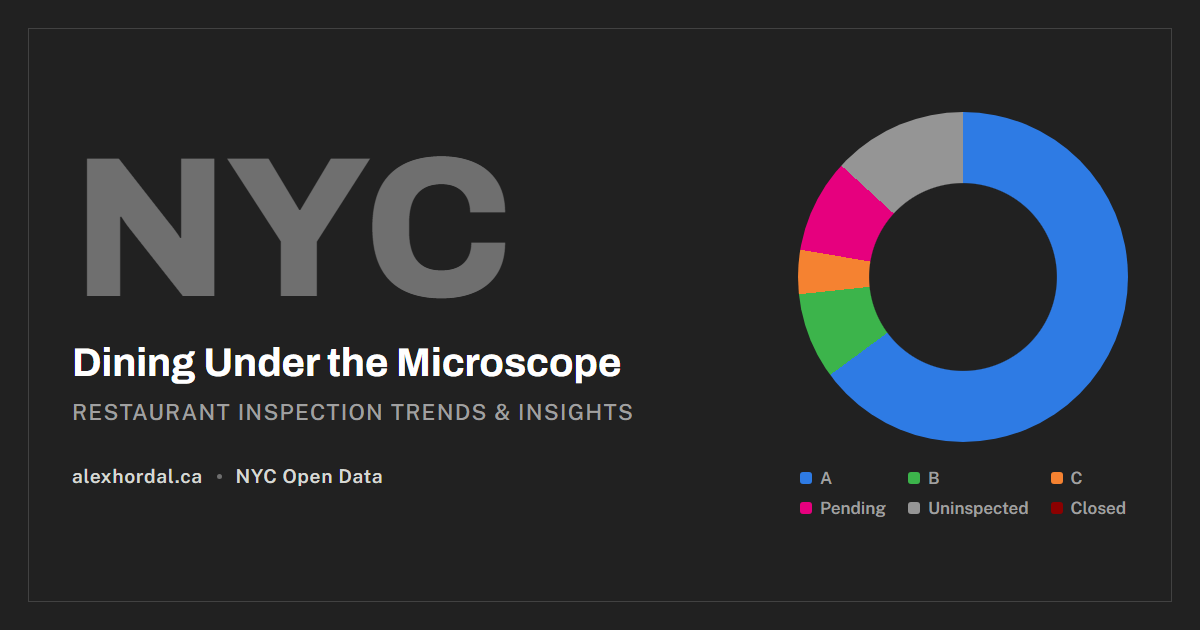
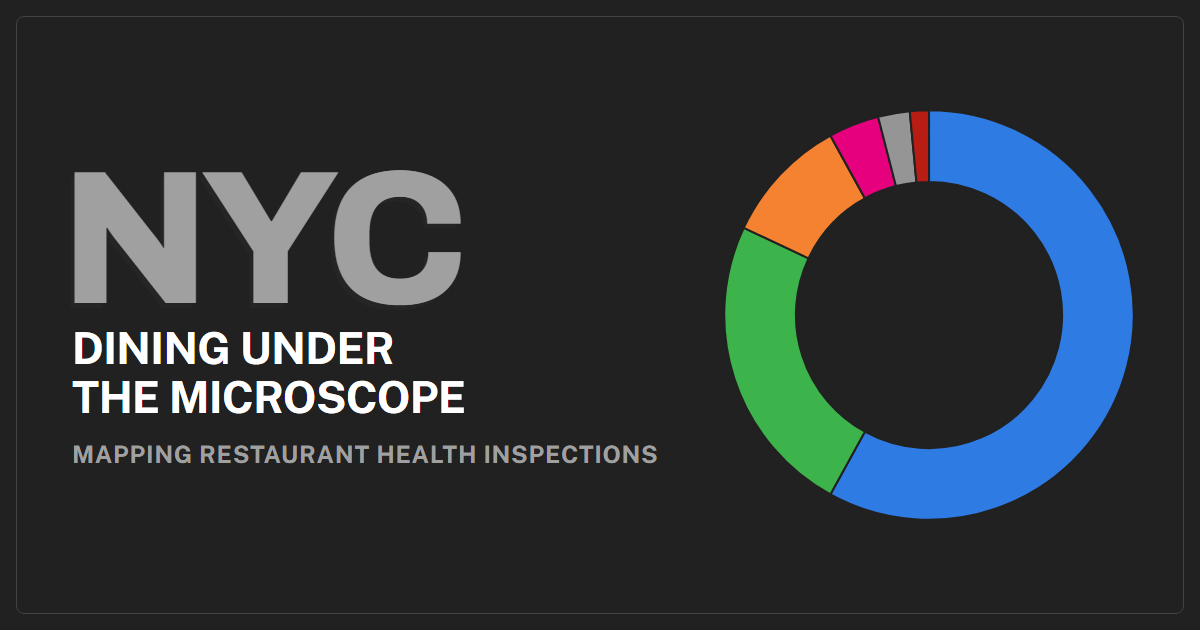
Add SEO files, restaurant-count injection, and split Node typecheck
Adds robots.txt/sitemap.xml, a Vite plugin that substitutes index.html's
%RESTAURANT_COUNT% token from dashboard-meta.json at build time, and
splits vite.config.ts under its own tsconfig.node.json so Node globals
stay out of src's typechecking; CI now runs both typecheck passes.

diff --git a/vite.config.ts b/vite.config.ts
@@ -3,11 +3,44 @@
 // Vite + Vitest config. Adds the PUBLIC_ env prefix and scopes the
 // frontend test run to src/.
 
-import { defineConfig } from "vitest/config";
+import fs from "node:fs";
+import path from "node:path";
+import { defineConfig, type Plugin } from "vitest/config";
 import react from "@vitejs/plugin-react";
 
+const RESTAURANT_COUNT_TOKEN = "%RESTAURANT_COUNT%";
+// Last known-good count, used only if dashboard-meta.json hasn't been
+// generated yet (e.g. `vite dev`/`vite build` run without the pipeline step).
+const RESTAURANT_COUNT_FALLBACK = 30_600;
+
+// index.html's SEO copy embeds the restaurant count as a rounded figure
+// ("roughly N") so it stays accurate without hand-editing on every
+// dataset refresh. dashboard-meta.json is generated by
+// pipeline/fetch-inspection.mjs, which always runs before this build.
+function injectRestaurantCount(): Plugin {
+  return {
+    name: "inject-restaurant-count",
+    transformIndexHtml(html) {
+      let count = RESTAURANT_COUNT_FALLBACK;
+
+      try {
+        const metaPath = path.resolve(process.cwd(), "public/data/dashboard-meta.json");
+        const meta = JSON.parse(fs.readFileSync(metaPath, "utf-8"));
+
+        if (typeof meta.restaurantCount === "number") {
+          count = Math.round(meta.restaurantCount / 100) * 100;
+        }
+      } catch {
+        // Not generated yet — fall back to the last known-good count.
+      }
+
+      return html.replaceAll(RESTAURANT_COUNT_TOKEN, count.toLocaleString("en-US"));
+    },
+  };
+}
+
 export default defineConfig({
-  plugins: [react()],
+  plugins: [react(), injectRestaurantCount()],
   // Vite only exposes client-side env vars to import.meta.env when
   // prefixed VITE_ by default. PUBLIC_ARCGIS_API_KEY (read in
   // MapView.tsx) uses a PUBLIC_ prefix instead, so it's added here
